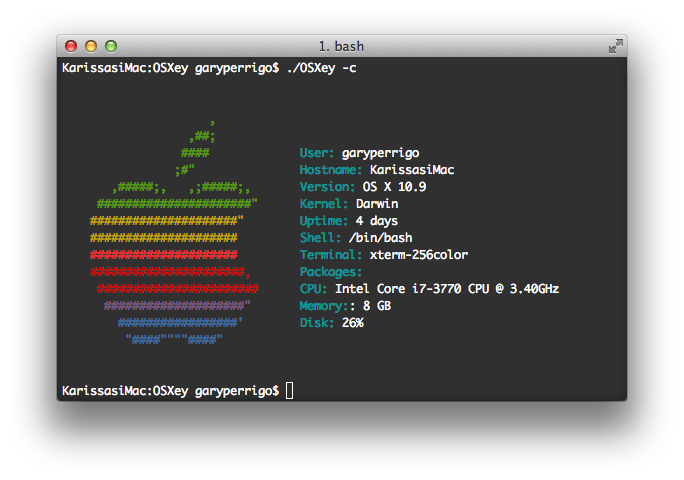
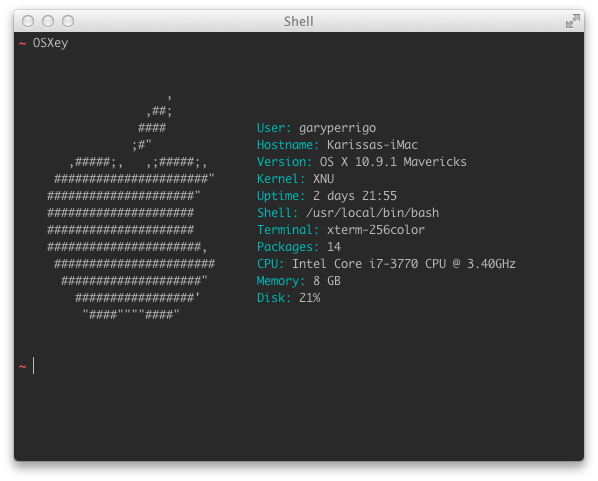
Various Changes
-environment variables in bash are capitalised so changed to match.

-updated readme todo list

-updated read me to remove configure of package manager (is done
automatically now)

-updated screenshots

diff --git a/README.md b/README.md
@@ -26,11 +26,6 @@ Change the value of the variable color, to change the color text. The options li
 
 	color=$(tput setaf $lightblue)
 
-Change the value of the variable packagehandler, to change the package handler. The options are listed under # Variables
-
-	packagehandler=$macportpackages
-
-
 Recent Changes
 --------------
 
@@ -42,10 +37,10 @@ Recent Changes
 To-Do List
 ------------
 
-* Better way of choosing package manager (automatic would be best) 
+* Test Package Manager with macports
 * Look into $terminalText bug. Maybe find a better way of displaying colors then current method.
 * Look into logo allignment in code (match what is dispalyed)
 * Code cleanup
-* Update screenshots
 * Smarter install script (create directory if doesn't exist, prompt if already uninstalled)
 * Look into being able to install via package manager (homebrew / macports)
+* Look up model identifier (e.g imac,12,2) and note which mac is in use
